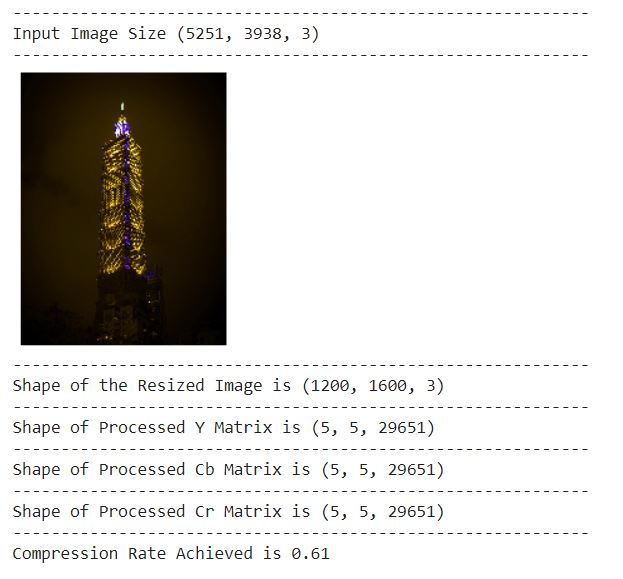
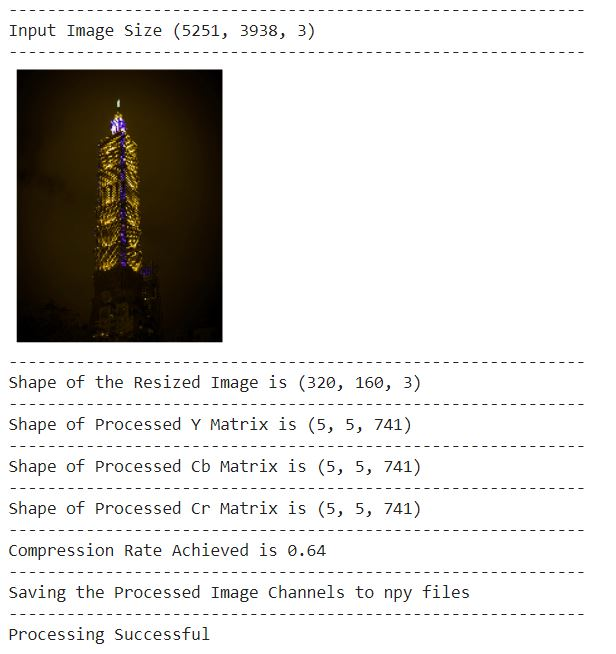
OOP Architecture Implemented

diff --git a/dct.py b/dct.py
@@ -1,145 +1,30 @@
-
-
-# Importing the Libraries necessary for the program
 import numpy as np
 import cv2
-import matplotlib.pyplot as plt
+# import matplotlib.pyplot as plt
 import sys
 
-# The Function generates a N point DCT Matrix which is based on type 2 DCT
-# whose formula can be found as Equation 4 (pg 2) in the Paper.
-# We use N = 8 when we are dealing with JPEG Compression, hence the same 
-# value has been used here.
 
-def generate_N_Point_DCT(N = 8, roundingFactor = 4):
-    D = np.random.randn(N,N)
-    for i in range(N):
-        for j in range(N):
-            if i==0:
-                D[i,j] = np.round(1/np.sqrt(N),roundingFactor)
-            else:
-                D[i,j] = np.round(np.sqrt(2/N) * np.cos(((2*j + 1)*i*np.pi)/(2*N)),roundingFactor)
-    return D
+class DCT():
+    def __init__(self):
+        self.count = 0
 
-# This function calculates the DCT transform using the DCT Matrix using formula 5 (pg 3 in the paper).
+    # The Function generates a N point DCT Matrix which is based on type 2 DCT
+    # whose formula can be found as Equation 4 (pg 2) in the Paper.
+    # We use N = 8 when we are dealing with JPEG Compression, hence the same 
+    # value has been used here.
 
-def calculateDCT(a, dctMatrix):
-    return np.round(dctMatrix @ a @ dctMatrix.T,2)
+    def generate_N_Point_DCT(self, N = 8, roundingFactor = 4):
+        D = np.random.randn(N,N)
+        for i in range(N):
+            for j in range(N):
+                if i==0:
+                    D[i,j] = np.round(1/np.sqrt(N),roundingFactor)
+                else:
+                    D[i,j] = np.round(np.sqrt(2/N) * np.cos(((2*j + 1)*i*np.pi)/(2*N)),roundingFactor)
+        return D
 
-# The (8*8) Quantization Matrix which is predefined here is the standard
-# matrix that is used in JPEG Compression.
-# This function calculates the Quantization Matrix depending on the 
-# percentage of compressed image size required.
-# If the desired percentage is 90%, more information is retained and the 
-# compression ratio turns out to be less.
-# If the desired percentage is 10%, more compression takes place at the
-# cost of loss of information.
-# 50% is the Standard value that is chosen for JPEG compression, hence same 
-# value has been used here.
+    # This function calculates the DCT transform using the DCT Matrix using formula 5 (pg 3 in the paper).
 
-def getQuantizationMatrix(requiredQualityLevel = 50):
-    Q = np.array([[16,11,10,16,24,40,51,61],
-                [12,12,14,19,26,58,60,55],
-                [14,13,16,24,40,57,69,56],
-                [14,17,22,29,51,87,80,62],
-                [18,22,37,56,68,109,103,77],
-                [24,35,55,64,81,104,113,92],
-                [49,64,78,87,103,121,120,101],
-                [72,92,95,98,112,100,103,99]])
-    if requiredQualityLevel == 50:
-        return Q
-    elif requiredQualityLevel>50:
-        Q = (Q * ((100-requiredQualityLevel)/50)).astype('int')
-        Q = np.where(Q>255,255,Q)
-        return Q
-    else:
-        Q = (Q * (50/requiredQualityLevel)).astype('int')
-        Q = np.where(Q>255,255,Q)
-        return Q
-
-# This function gives us the quantized output which can be used to 
-# find the relevant compressions in the image.
-
-def quantizedOutputs(D,Q):
-    C = D//Q
-    return C
-
-# This function takes one image channel as the input and returns the 
-# DCT processed output for the same.
-# We use DCT on the Image to convert it from Spectral Domain 
-# (Y-Cb-Cr Channels) to its equivalent Frequency Domain.
-
-def compressedInformation(Y, N = 8, compressionPercentage = 50, restrictingFactor = 5):
-    h, w = Y.shape
-    # N, restrictingFactor = 8, 5
-    dctMatrix = generate_N_Point_DCT(N)
-    Q = getQuantizationMatrix(compressionPercentage)
-    outArr = np.random.randn(restrictingFactor,restrictingFactor,1)
-    # print(outArr.shape)
-    for i in range(0,h-N,N):
-        for j in range(0,w-N,N):
-            tempImg = Y[i:i+N, j:j+N]
-            D = calculateDCT(tempImg, dctMatrix)
-            C = quantizedOutputs(D,Q)
-            C = C[:restrictingFactor,:restrictingFactor].reshape(restrictingFactor, restrictingFactor,1)
-            outArr = np.concatenate((outArr, C), axis = 2)
-            # print(D.shape)
-    outArr = outArr[:,:,1:]
-    # print(outArr.shape)
-    return outArr
-
-# This function calculates the compression ratio between the 
-# input and processed output information.
-
-def getCompressionRate(Y, processedY):
-    a,b = Y.shape
-    inputImagePixels = a*b*3
-    a1, b1, c1 = processedY.shape
-    outputImagePixels = a1*b1*c1*3
-    return np.round(1-(outputImagePixels/inputImagePixels),2)
-
-# This function takes an image and the resizing heights 
-# and weights as the input and returns processed images.
-
-def processImage(url, resize_height=480, resize_width=480):
-    BGRImage = cv2.imread(url)
-    print("------------------------------------------------------------")
-    print("Input Image Size", BGRImage.shape)
-    # print("------------------------------------------------------------")
-    # plt.imshow(BGRImage, interpolation='nearest')
-    # plt.axis('off')
-    # plt.show()
-    BGRImage = cv2.resize(BGRImage, (resize_height, resize_width)) 
-    print("------------------------------------------------------------")
-    print("Shape of the Resized Image is", BGRImage.shape)
-    YCrCbImage = cv2.cvtColor(BGRImage, cv2.COLOR_BGR2YCR_CB)
-    Y, Cb, Cr = YCrCbImage[:,:,0], YCrCbImage[:,:,1], YCrCbImage[:,:,2]
-    Y = np.array(Y).astype(np.int16)
-    Cb = np.array(Cb).astype(np.int16)
-    Cr = np.array(Cr).astype(np.int16)
-    Y, Cb, Cr = Y - 128, Cb - 128, Cr - 128
-
-    processedY = compressedInformation(Y)
-    print("------------------------------------------------------------")
-    print("Shape of Processed Y Matrix is", processedY.shape)
-    processedCb = compressedInformation(Cb)
-    print("------------------------------------------------------------")
-    print("Shape of Processed Cb Matrix is", processedCb.shape)
-    processedCr = compressedInformation(Cr)
-    print("------------------------------------------------------------")
-    print("Shape of Processed Cr Matrix is", processedCr.shape)
-
-    print("------------------------------------------------------------")
-    print("Compression Rate Achieved is", getCompressionRate(Y, processedY))
-    return processedY, processedCb, processedCr
-
-
-if __name__== "__main__":
-    
-    if(len(sys.argv) != 4):
-        raise Exception('Format: python dct.py image_url resize_height resize_width') 
-    url, resize_height, resize_width = sys.argv[1], int(sys.argv[2]), int(sys.argv[3])
-    print("------------------------------------------------------------")
-    print("Processing with Input Image")
-    _,_,_ = processImage(url, resize_height, resize_width)
-
+    def calculateDCT(self, a):
+        dctMatrix = self.generate_N_Point_DCT()
+        return np.round(dctMatrix @ a @ dctMatrix.T,4)

diff --git a/imageCompression.py b/imageCompression.py
@@ -1,0 +1,98 @@
+# Importing the Libraries necessary for the program
+import numpy as np
+import cv2
+import matplotlib.pyplot as plt
+import sys
+from dct import DCT
+from quantization import quantizationClass
+
+dct_Object = DCT()
+quantization_Object = quantizationClass()
+
+# This function takes one image channel as the input and returns the 
+# DCT processed output for the same.
+# We use DCT on the Image to convert it from Spectral Domain 
+# (Y-Cb-Cr Channels) to its equivalent Frequency Domain.
+
+def compressedInformation(Y, N = 8, compressionPercentage = 50, restrictingFactor = 5):
+    h, w = Y.shape
+    # N, restrictingFactor = 8, 5
+    # dctMatrix = generate_N_Point_DCT(N)
+    # Q = getQuantizationMatrix(compressionPercentage)
+    outArr = np.random.randn(restrictingFactor,restrictingFactor,1)
+    # print(outArr.shape)
+    for i in range(0,h-N,N):
+        for j in range(0,w-N,N):
+            tempImg = Y[i:i+N, j:j+N]
+            D = dct_Object.calculateDCT(tempImg)
+            C = quantization_Object.quantizedOutputs(D)
+            C = C[:restrictingFactor,:restrictingFactor].reshape(restrictingFactor, restrictingFactor,1)
+            outArr = np.concatenate((outArr, C), axis = 2)
+            # print(D.shape)
+    outArr = outArr[:,:,1:]
+    # print(outArr.shape)
+    return outArr
+
+# This function calculates the compression ratio between the 
+# input and processed output information.
+
+def getCompressionRate(Y, processedY):
+    a,b = Y.shape
+    inputImagePixels = a*b*3
+    a1, b1, c1 = processedY.shape
+    outputImagePixels = a1*b1*c1*3
+    return np.round(1-(outputImagePixels/inputImagePixels),2)
+
+# This function takes an image and the resizing heights 
+# and weights as the input and returns processed images.
+
+def processImage(url, resize_height=480, resize_width=480):
+    BGRImage = cv2.imread(url)
+    print("------------------------------------------------------------")
+    print("Input Image Size", BGRImage.shape)
+    # print("------------------------------------------------------------")
+    # plt.imshow(BGRImage, interpolation='nearest')
+    # plt.axis('off')
+    # plt.show()
+    BGRImage = cv2.resize(BGRImage, (resize_height, resize_width)) 
+    print("------------------------------------------------------------")
+    print("Shape of the Resized Image is", BGRImage.shape)
+    YCrCbImage = cv2.cvtColor(BGRImage, cv2.COLOR_BGR2YCR_CB)
+    Y, Cb, Cr = YCrCbImage[:,:,0], YCrCbImage[:,:,1], YCrCbImage[:,:,2]
+    Y = np.array(Y).astype(np.int16)
+    Cb = np.array(Cb).astype(np.int16)
+    Cr = np.array(Cr).astype(np.int16)
+    Y, Cb, Cr = Y - 128, Cb - 128, Cr - 128
+
+    processedY = compressedInformation(Y)
+    print("------------------------------------------------------------")
+    print("Shape of Processed Y Matrix is", processedY.shape)
+    processedCb = compressedInformation(Cb)
+    print("------------------------------------------------------------")
+    print("Shape of Processed Cb Matrix is", processedCb.shape)
+    processedCr = compressedInformation(Cr)
+    print("------------------------------------------------------------")
+    print("Shape of Processed Cr Matrix is", processedCr.shape)
+
+    print("------------------------------------------------------------")
+    print("Compression Rate Achieved is", getCompressionRate(Y, processedY))
+
+    print("------------------------------------------------------------")
+    print("Saving the Processed Image Channels to npy files")
+    np.save("processedY.npy", processedY)
+    np.save("processedCb.npy", processedCb)
+    np.save("processedCr.npy", processedCr)
+    print("------------------------------------------------------------")
+    print("Processing Successful")
+    return processedY, processedCb, processedCr
+
+
+if __name__== "__main__":
+    
+    if(len(sys.argv) != 4):
+        raise Exception('Format: python dct.py image_url resize_height resize_width') 
+    url, resize_height, resize_width = sys.argv[1], int(sys.argv[2]), int(sys.argv[3])
+    print("------------------------------------------------------------")
+    print("Processing with Input Image")
+    _,_,_ = processImage(url, resize_height, resize_width)
+

diff --git a/quantization.py b/quantization.py
@@ -1,0 +1,48 @@
+import numpy as np
+import cv2
+import matplotlib.pyplot as plt
+import sys
+
+class quantizationClass():
+
+    def __init__(self):
+        self.count = 0
+
+    # The (8*8) Quantization Matrix which is predefined here is the standard
+    # matrix that is used in JPEG Compression.
+    # This function calculates the Quantization Matrix depending on the 
+    # percentage of compressed image size required.
+    # If the desired percentage is 90%, more information is retained and the 
+    # compression ratio turns out to be less.
+    # If the desired percentage is 10%, more compression takes place at the
+    # cost of loss of information.
+    # 50% is the Standard value that is chosen for JPEG compression, hence same 
+    # value has been used here.
+
+    def getQuantizationMatrix(self, requiredQualityLevel = 50):
+        Q = np.array([[16,11,10,16,24,40,51,61],
+                    [12,12,14,19,26,58,60,55],
+                    [14,13,16,24,40,57,69,56],
+                    [14,17,22,29,51,87,80,62],
+                    [18,22,37,56,68,109,103,77],
+                    [24,35,55,64,81,104,113,92],
+                    [49,64,78,87,103,121,120,101],
+                    [72,92,95,98,112,100,103,99]])
+        if requiredQualityLevel == 50:
+            return Q
+        elif requiredQualityLevel>50:
+            Q = (Q * ((100-requiredQualityLevel)/50)).astype('int')
+            Q = np.where(Q>255,255,Q)
+            return Q
+        else:
+            Q = (Q * (50/requiredQualityLevel)).astype('int')
+            Q = np.where(Q>255,255,Q)
+            return Q
+
+    # This function gives us the quantized output which can be used to 
+    # find the relevant compressions in the image.
+
+    def quantizedOutputs(self, D):
+        Q = self.getQuantizationMatrix()
+        C = D//Q
+        return C
